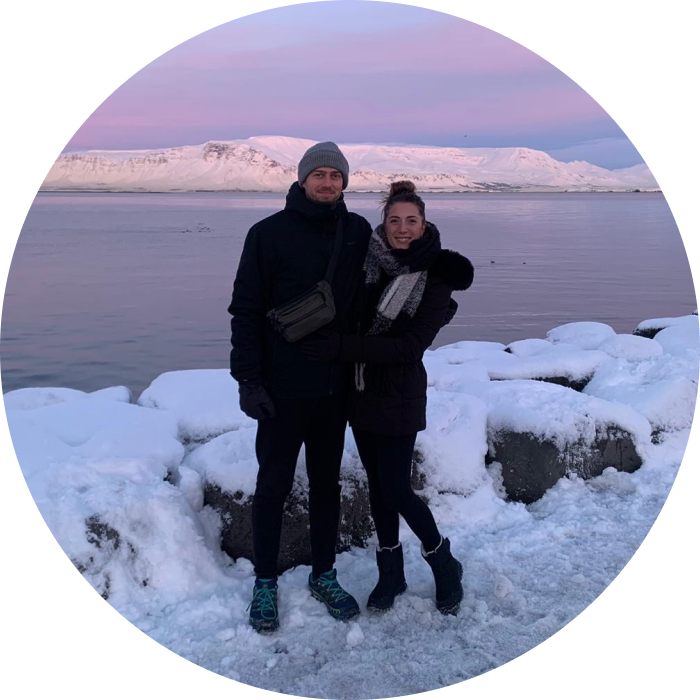
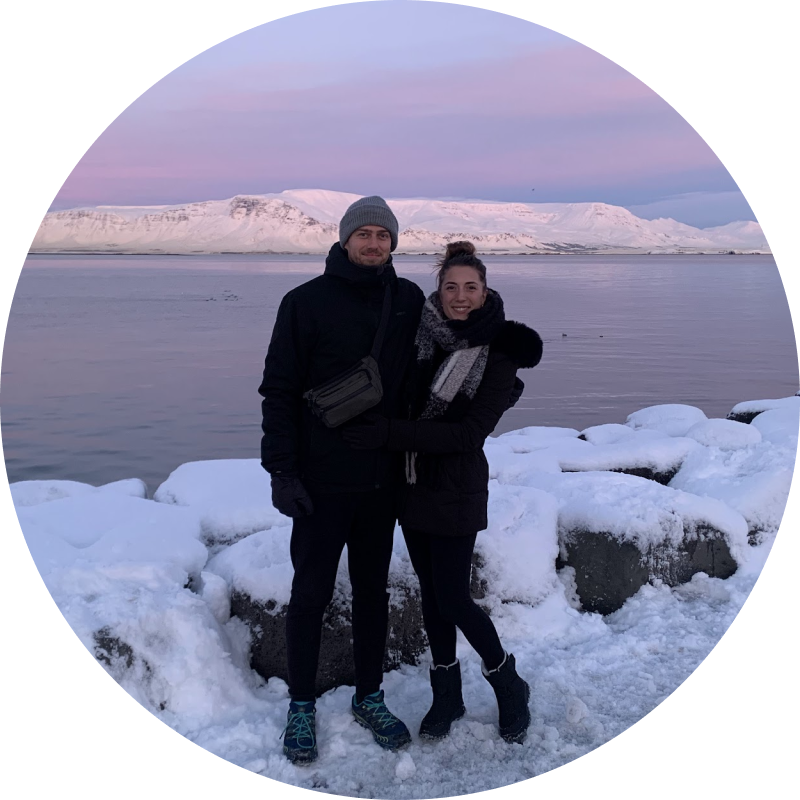
added circle images to all pages, some css edits too

diff --git a/app/travel/page.jsx b/app/travel/page.jsx
@@ -2,22 +2,30 @@ import fromBcnTrain from "../../public/images/bcn-castelldefels.jpg"
 import fromAirportCar from "../../public/images/airport-venue-car.jpg"
 import taxiRanks from "../../public/images/train-stations-taxi-rank.jpg"
 import ImgCont from "../../components/img-container"
+import HideImage from "../../components/hide-img"
+import Turrent from "@/public/images/image2 1.png"
+import Tenerife from "@/public/images/tenerife-circle.png"
 
 export default async function Travel() {
 
   return (
     <main>
+      <HideImage
+        src={Tenerife}
+        alt="Tenerife"
+        fill={true}
+      />
       <h1>How to get there</h1>
       <div className="info-section">
         <h2 className="uppercase">Train from Barcelona</h2>
-        <ImgCont src={fromBcnTrain} fill={true} className='image' />
+        <ImgCont src={fromBcnTrain} fill={true} className='image' alt="Barcelona train map" />
         <p>
           {`Castadafells train station is a 15 minute walk from the venue or a 5
           minute taxi. If you're heading from Barcelona, you can get the R2S/R2
           from Passaig de Gracia or Sants train stations and the journey is
           around 30 minutes.` }
         </p>
-        <ImgCont src={taxiRanks} fill={true} className='image' />
+        <ImgCont src={taxiRanks} fill={true} className='image' alt="Taxi info" />
         <p>
           {`There are TWO stations on the RS2/R2 line, 'Castadefells' and
           'Castadefells platja' (beach). Although the platja stop looks closer
@@ -28,7 +36,7 @@ export default async function Travel() {
       </div>
       <div className="info-section">
         <h2 className="uppercase">Car/Taxi from Airport</h2>
-        <ImgCont src={fromAirportCar} fill={true} className='image' />
+        <ImgCont src={fromAirportCar} fill={true} className='image' alt="Instructions from airport in car" />
         <p>
           {`The venue is only 400 metres from the C-32 motorway and 10 minutes by
           car from El Prat airport. Free parking is provided for those with

diff --git a/app/globals.css b/app/globals.css
@@ -44,8 +44,7 @@ main {
   flex-direction: column;
   align-items: center;
   justify-content: flex-start;
-  margin: auto;
-  margin-bottom: 100px;
+  margin: 60px auto 100px;
   box-sizing: border-box;
   scrollbar-gutter: stable both-edges;
 }
@@ -185,24 +184,6 @@ h3 {
   top: -500px;
 }
 
-.image-container-shrinkable {
-  position: relative;
-  width: 100%;
-  height: 400px;
-  transition: height 0.4s ease-out;
-}
-
-.image-container-shrinkable.shrink {
-  height: 100px;
-}
-
-.image-container-shrinkable>img {
-  object-fit: contain;
-  width: 100%;
-  position: relative;
-  height: auto;
-}
-
 /* remove? */
 .table-all-rows {
   width: 100%;
@@ -230,39 +211,6 @@ td {
   overflow: hidden;
   text-overflow: ellipsis;
 }
-
-/* .guest-info {
-  display: flex;
-  flex-direction: row;
-  flex-wrap: wrap;
-  width: 100%;
-  justify-content: space-between;
-  padding: 0.25rem 0;
-  gap: 2rem;
-} */
-
-/* TODO: check this
-
-.guestname-row {
-  display: flex;
-  flex-direction: row;
-  justify-content: flex-start;
-  gap: 2rem;
-  cursor: pointer;
-}
-
-.guestname-row.expanded {
-  height: 100%;
-}
-
-.guestname-row:hover {
-  color: var(--slategrey)
-}
-
-.guestname-row p {
-  margin-bottom: 0;
-  margin-bottom: 0;
-} */
 
 input {
   font-family: "Helvetica Neue", "Roboto", Helvetica, Arial, sans-serif;
@@ -341,9 +289,6 @@ table.guestlist th {
 }
 
 @media (max-width: 600px) {
-  .image-container-shrinkable {
-    height: 200px;
-  }
 
   h1,
   h1.getting-married {

diff --git a/app/accomodation/page.jsx b/app/accomodation/page.jsx
@@ -4,16 +4,23 @@ import hotelTurret from "../../public/images/hotel-turret.png"
 import { ContactBox } from "./contactBox.js"
 import Link from 'next/link'
 import PinIcon from "../../components/PinIcon"
+import HideImage from "../../components/hide-img"
+import Mexico from "@/public/images/mexico-circle.png"
 
 export default async function Accomodation() {
 
   return (
     <main>
+      <HideImage
+        src={Mexico}
+        alt="Mexico"
+        fill={true}
+      />
       <h1>Where to stay</h1>
       <div className="info-section">
         {/* <ImgCont src={aisle} fill={true} className='image' /> */}
         <h2 className="uppercase">The Venue (Hotel Rey Don Jaime)</h2>
-        <ImgCont src={hotelTurret} fill={true} className='image' />
+        <ImgCont src={hotelTurret} fill={true} className='image' alt="Turret" />
         <ContactBox />
         <p>
           {`We would love everyone to stay at the venue with us so we can enjoy afternoon,
@@ -44,7 +51,7 @@ export default async function Accomodation() {
           public transpot for a day trip.`}
         </p>
 
-        <ImgCont src={CastelldefelsBeach} fill={true} className='image' />
+        <ImgCont src={CastelldefelsBeach} fill={true} className='image' alt="Castelldefels beach" />
       </div>
 
       <div className="info-section">

diff --git a/components/shrink-img.jsx b/components/shrink-img.jsx
@@ -1,0 +1,44 @@
+// components/CircleImage.js
+'use client';
+
+import { useState, useEffect } from 'react';
+import { usePathname } from 'next/navigation';
+import { motion, AnimatePresence } from 'framer-motion';
+import styles from './CircleImage.module.css';
+
+const CircleImage = ({ src }) => {
+  const pathname = usePathname();
+  const [imageSrc, setImageSrc] = useState(src);
+  const [isTransitioning, setIsTransitioning] = useState(false);
+  const [currentPathname, setCurrentPathname] = useState(pathname);
+
+  useEffect(() => {
+    if (pathname !== currentPathname) {
+      setIsTransitioning(true);
+      setTimeout(() => {
+        setImageSrc(src);
+        setIsTransitioning(false);
+        setCurrentPathname(pathname);
+      }, 1000); // Adjust this duration to match the CSS animation
+    }
+  }, [pathname, currentPathname, src]);
+
+  return (
+    <div className={styles.container}>
+      <AnimatePresence>
+        <motion.img
+          key={imageSrc}
+          src={imageSrc}
+          className={styles.circle}
+          initial={{ opacity: 0 }}
+          animate={{ opacity: 1 }}
+          exit={{ opacity: 0 }}
+          transition={{ duration: 1 }}
+          alt="Circle"
+        />
+      </AnimatePresence>
+    </div>
+  );
+};
+
+export default CircleImage;

diff --git a/components/hide-img.jsx b/components/hide-img.jsx
@@ -1,12 +1,37 @@
 'use client'
 
 import Image from 'next/image';
+import styled from 'styled-components';
 
-export default function HideImage({ isShrinkable = false, isVisible, className, src, fill, width }) {
+const ImageContainerShrinkable = styled.div`
+  position: relative;
+  width: 100%;
+  height: ${({ height }) => height || '300px'};
+  transition: height 0.4s ease-out;
+
+  .shrink {
+    height: 100px;
+  }
+
+  img {
+    object-fit: contain;
+    width: 100%;
+    position: relative;
+    height: auto;
+  }
+
+
+  @media (max-width: 600px) {
+    height: 150px;
+  };
+`;
+
+
+export default function HideImage({ isShrinkable = false, isVisible, className, src, fill, height }) {
   return (
     // TODO: convert to styled components
-    (<div width={width} className={`${className ? className : ''} image-container-shrinkable ${isShrinkable ? (isVisible ? '' : 'shrink') : ''}`} >
-      <Image src={src} fill={fill} />
-    </div>)
+    (<ImageContainerShrinkable height={height} className={`${className ? className : ''} ${isShrinkable ? (isVisible ? '' : 'shrink') : ''}`} >
+      <Image src={src} fill={fill} unoptimized={true} />
+    </ImageContainerShrinkable>)
   )
 }

diff --git a/components/PinIcon.jsx b/components/PinIcon.jsx
@@ -4,10 +4,10 @@ const PinIcon = ({ color }) => (
   <svg fill="var(--slategrey)" height="15px" width="15px" viewBox="0 0 425.963 425.963">
     <g>
       <path d="M213.285,0h-0.608C139.114,0,79.268,59.826,79.268,133.361c0,48.202,21.952,111.817,65.246,189.081
-		c32.098,57.281,64.646,101.152,64.972,101.588c0.906,1.217,2.334,1.934,3.847,1.934c0.043,0,0.087,0,0.13-0.002
-		c1.561-0.043,3.002-0.842,3.868-2.143c0.321-0.486,32.637-49.287,64.517-108.976c43.03-80.563,64.848-141.624,64.848-181.482
-		C346.693,59.825,286.846,0,213.285,0z M274.865,136.62c0,34.124-27.761,61.884-61.885,61.884
-		c-34.123,0-61.884-27.761-61.884-61.884s27.761-61.884,61.884-61.884C247.104,74.736,274.865,102.497,274.865,136.62z"/>
+      c32.098,57.281,64.646,101.152,64.972,101.588c0.906,1.217,2.334,1.934,3.847,1.934c0.043,0,0.087,0,0.13-0.002
+      c1.561-0.043,3.002-0.842,3.868-2.143c0.321-0.486,32.637-49.287,64.517-108.976c43.03-80.563,64.848-141.624,64.848-181.482
+      C346.693,59.825,286.846,0,213.285,0z M274.865,136.62c0,34.124-27.761,61.884-61.885,61.884
+      c-34.123,0-61.884-27.761-61.884-61.884s27.761-61.884,61.884-61.884C247.104,74.736,274.865,102.497,274.865,136.62z"/>
     </g>
   </svg>
 );

diff --git a/app/rsvp/rsvp-client.jsx b/app/rsvp/rsvp-client.jsx
@@ -3,8 +3,9 @@
 import { useState } from 'react'
 import Table from '@/components/table.jsx'
 import Search from '@/components/search-two.jsx'
-import HideImage from "./hide-img"
+import HideImage from "../../components/hide-img"
 import Turrent from "@/public/images/image2 1.png"
+import Kenya from "@/public/images/kenya-circle.png"
 
 export const RsvpClient = () => {
   const [searchTerm, setSearchTerm] = useState('')
@@ -13,10 +14,9 @@ export const RsvpClient = () => {
   return (
     <div className={`rsvp-container`}>
       <HideImage
-        src={Turrent}
-        alt="Turrent"
+        src={Kenya}
+        alt="Kenya"
         fill={true}
-        width="400px"
         isVisible={!searchTerm}
         isShrinkable
       />

diff --git a/app/itinerary/page.jsx b/app/itinerary/page.jsx
@@ -1,6 +1,8 @@
 import React from "react"
 import HideImage from "../../components/hide-img"
+import CircleImage from "../../components/shrink-img"
 import aisle from "../../public/images/aisle-circle.png"
+import Kenya from "../../public/images/kenya2-circle.png"
 import { Vips } from './vips.jsx'
 import { TimeAndEvent } from '../../components/TimeAndEvent.jsx'
 
@@ -8,11 +10,11 @@ export default async function Itinerary() {
 
   return (
     <main>
+      {/* <CircleImage src={'images/aisle-circle.png'} /> */}
       <HideImage
-        src={aisle}
-        alt="aisle"
+        src={Kenya}
+        alt="Kenya"
         fill={true}
-        width="300px"
       />
       <h1>Itinerary</h1>
       <div className="info-section">

diff --git a/app/faqs/page.jsx b/app/faqs/page.jsx
@@ -2,16 +2,17 @@ import { Button } from "@/components/button"
 import { Socials } from "@/components/socials"
 import Image from "../../components/hide-img"
 import Iceland from "@/public/images/iceland-circle.png"
+import CircleImage from "../../components/shrink-img"
 
 export default async function FAQs() {
 
   return (
     <main>
+      {/* <CircleImage src={'images/iceland-circle.png'} /> */}
       <Image
         src={Iceland}
         alt="Iceland"
         fill={true}
-        width="300px"
       />
       <h1>FAQs</h1>
       <div className="info-section">

diff --git a/app/gifts/page.jsx b/app/gifts/page.jsx
@@ -1,6 +1,6 @@
 import { ContributeButton } from "./contribute-button.js"
 import Image from "../../components/hide-img"
-import Granada from "@/public/images/granada circle.png"
+import Granada from "@/public/images/granada-circle.png"
 
 export default async function Gifts() {
 
@@ -10,7 +10,6 @@ export default async function Gifts() {
         src={Granada}
         alt="Granada"
         fill={true}
-        width="400px"
       />
       <h1>Gifts</h1>
       <div className="info-section">

diff --git a/components/img-container.jsx b/components/img-container.jsx
@@ -17,10 +17,10 @@ const ImgContainer = styled.div`
   }
 `;
 
-export default function ImgCont({ src, fill, width }) {
+export default function ImgCont({ src, fill, width, alt }) {
   return (
     <ImgContainer width={width}>
-      <Image src={src} fill={fill} />
+      <Image src={src} fill={fill} alt={alt} />
     </ImgContainer>
   )
 }

diff --git a/components/CircleImage.module.css b/components/CircleImage.module.css
@@ -1,0 +1,19 @@
+/* components/CircleImage.module.css */
+.container {
+  display: flex;
+  justify-content: center;
+  align-items: center;
+}
+
+.circle {
+  width: 200px;
+  height: 200px;
+  border-radius: 50%;
+  object-fit: cover;
+  transition: all 0.3s linear;
+}
+
+.shrink {
+  transform: scale(0);
+  filter: opacity(0)
+}
